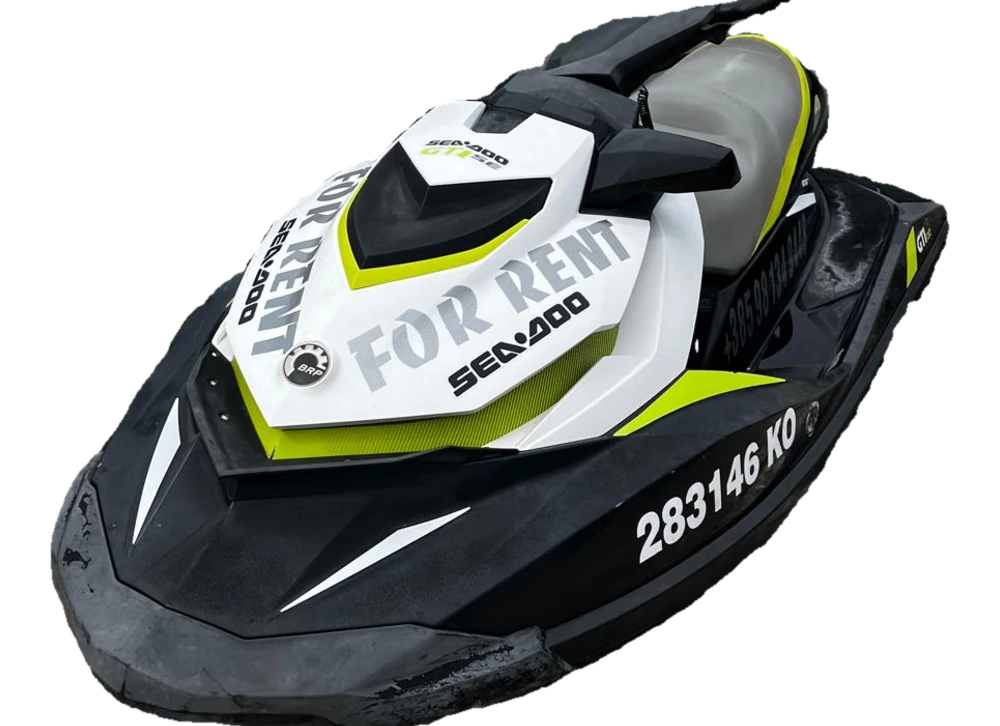
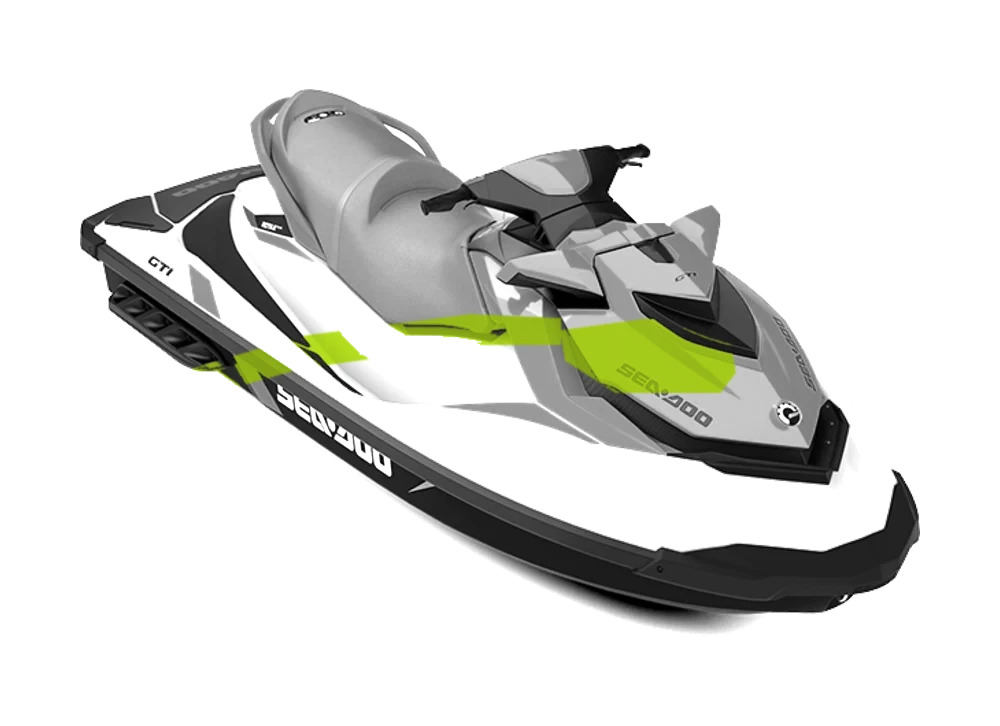
Replace Models images with uniform, new-looking product cut-outs
Swap the used-condition dock photos in the Models section for clean,
uniform, transparent cut-outs that float on the dark (#090b0e) section.

Jet skis — all three normalised to an identical 1000x726 canvas, craft
~84% width, centred, same Sea-Doo "Studio-34FR" 3/4-front angle, all
facing bow-right, pristine (no plates, stickers, riders, docks, spray):
- Spark 3UP (white): glossy white+black Spark from the owner's own
  reference photo (Downloads/jetwave/spark) — reads as a new product
  render. Its real livery is white+black, so the black deck sits dark
  on the dark section, but the white hull and SEA-DOO branding stay crisp.
- GTI 130 SE (green): recoloured to match the actual fleet ski — a
  white/grey body with black hull and bold lime/krypton-green accent
  flashes (front knee + upper side), NOT a green-bodied ski. Produced by
  desaturating the green studio render to a white/grey/black base, then
  painting lime-green back into the accent panels only.
- GTX 130 Pro (cyan): Sea-Doo GTX PRO/Rental 130 White & Reef Blue render.

Gliser — reduced gallery from two images to one front shot; cleaned the
existing Idea 58 (Open Line) photo: removed dock/water and the KO-277
registration, re-floated on transparent. Deleted the unused back image.
CSS .gliser-gallery: 2-col grid -> single centred image.

Colours still match labels (white/green/cyan), so i18n is unchanged.
Both languages render, console is clean, carousel still has 3 items.
[…]

diff --git a/index.html b/index.html
@@ -569,12 +569,6 @@
               alt="Idea Marine 58 speedboat in Korčula - Jet Wave"
               loading="lazy"
             />
-            <img
-              class="ride-wave smooth"
-              src="assets/models/gliser-idea-marine-58-back.webp"
-              alt="Idea Marine 58 speedboat, rear view in Korčula - Jet Wave"
-              loading="lazy"
-            />
           </div>
           <div class="gliser-info">
             <h3 data-i18n="models.ideaMarine58">Idea Marine 58</h3>

diff --git a/css/styles.css b/css/styles.css
@@ -1521,9 +1521,8 @@ h2 {
   margin: 24px auto 0;
 }
 .gliser-gallery {
-  display: grid;
-  grid-template-columns: 1fr 1fr;
-  gap: 12px;
+  display: flex;
+  justify-content: center;
 }
 .gliser-gallery img {
   width: 100%;
